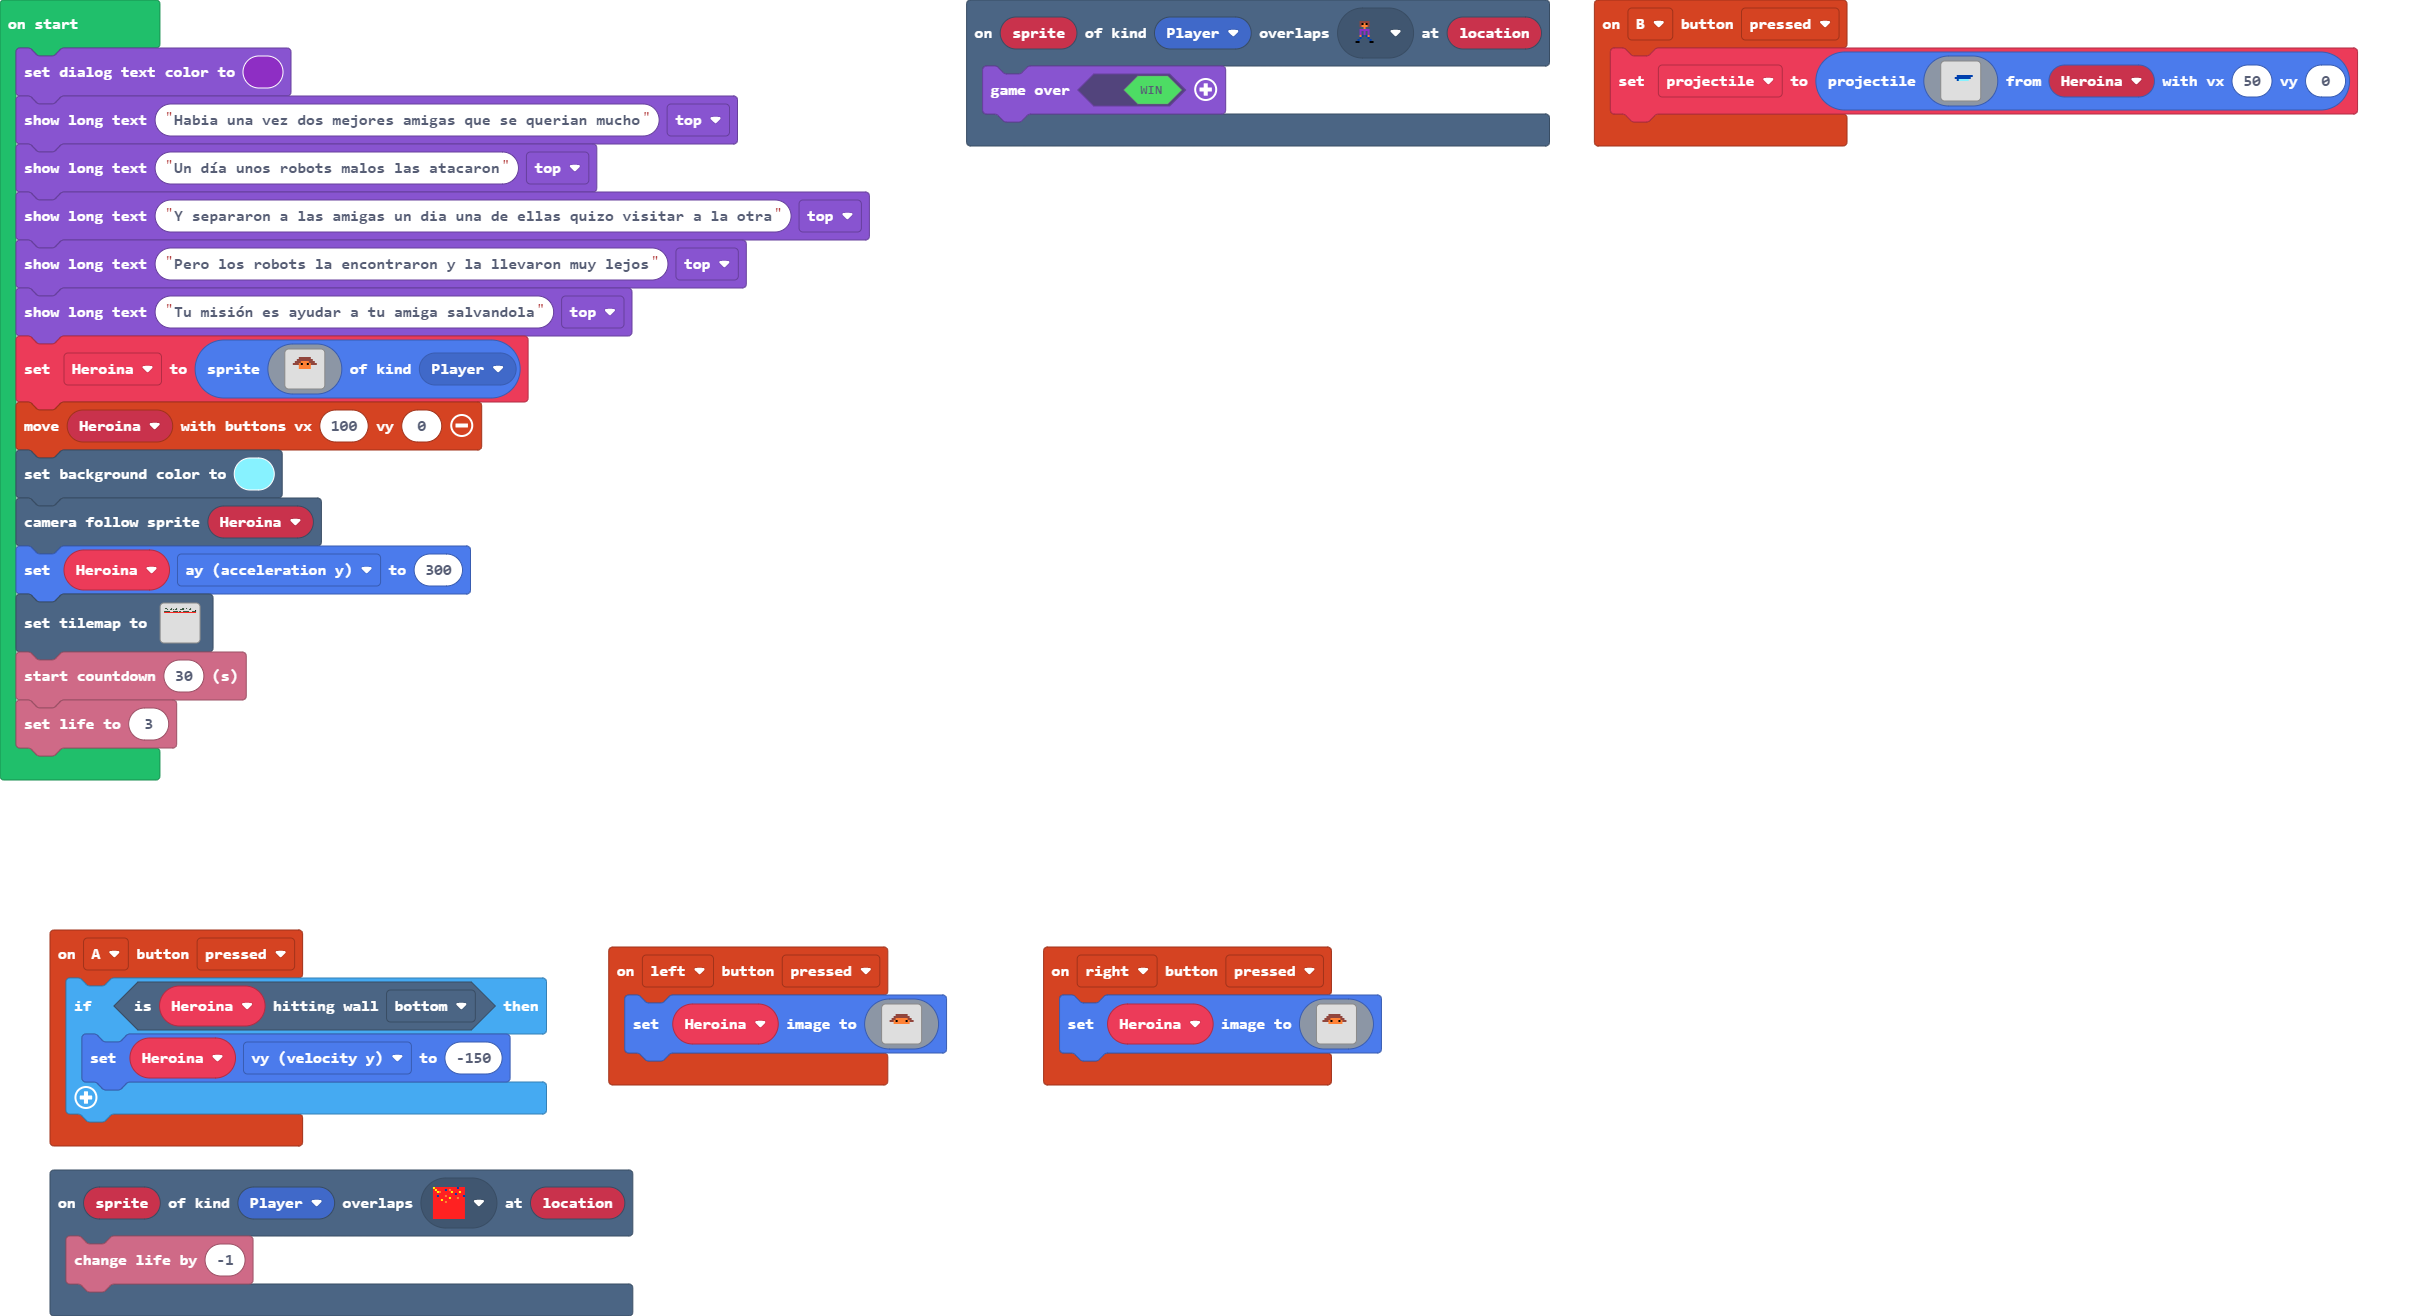
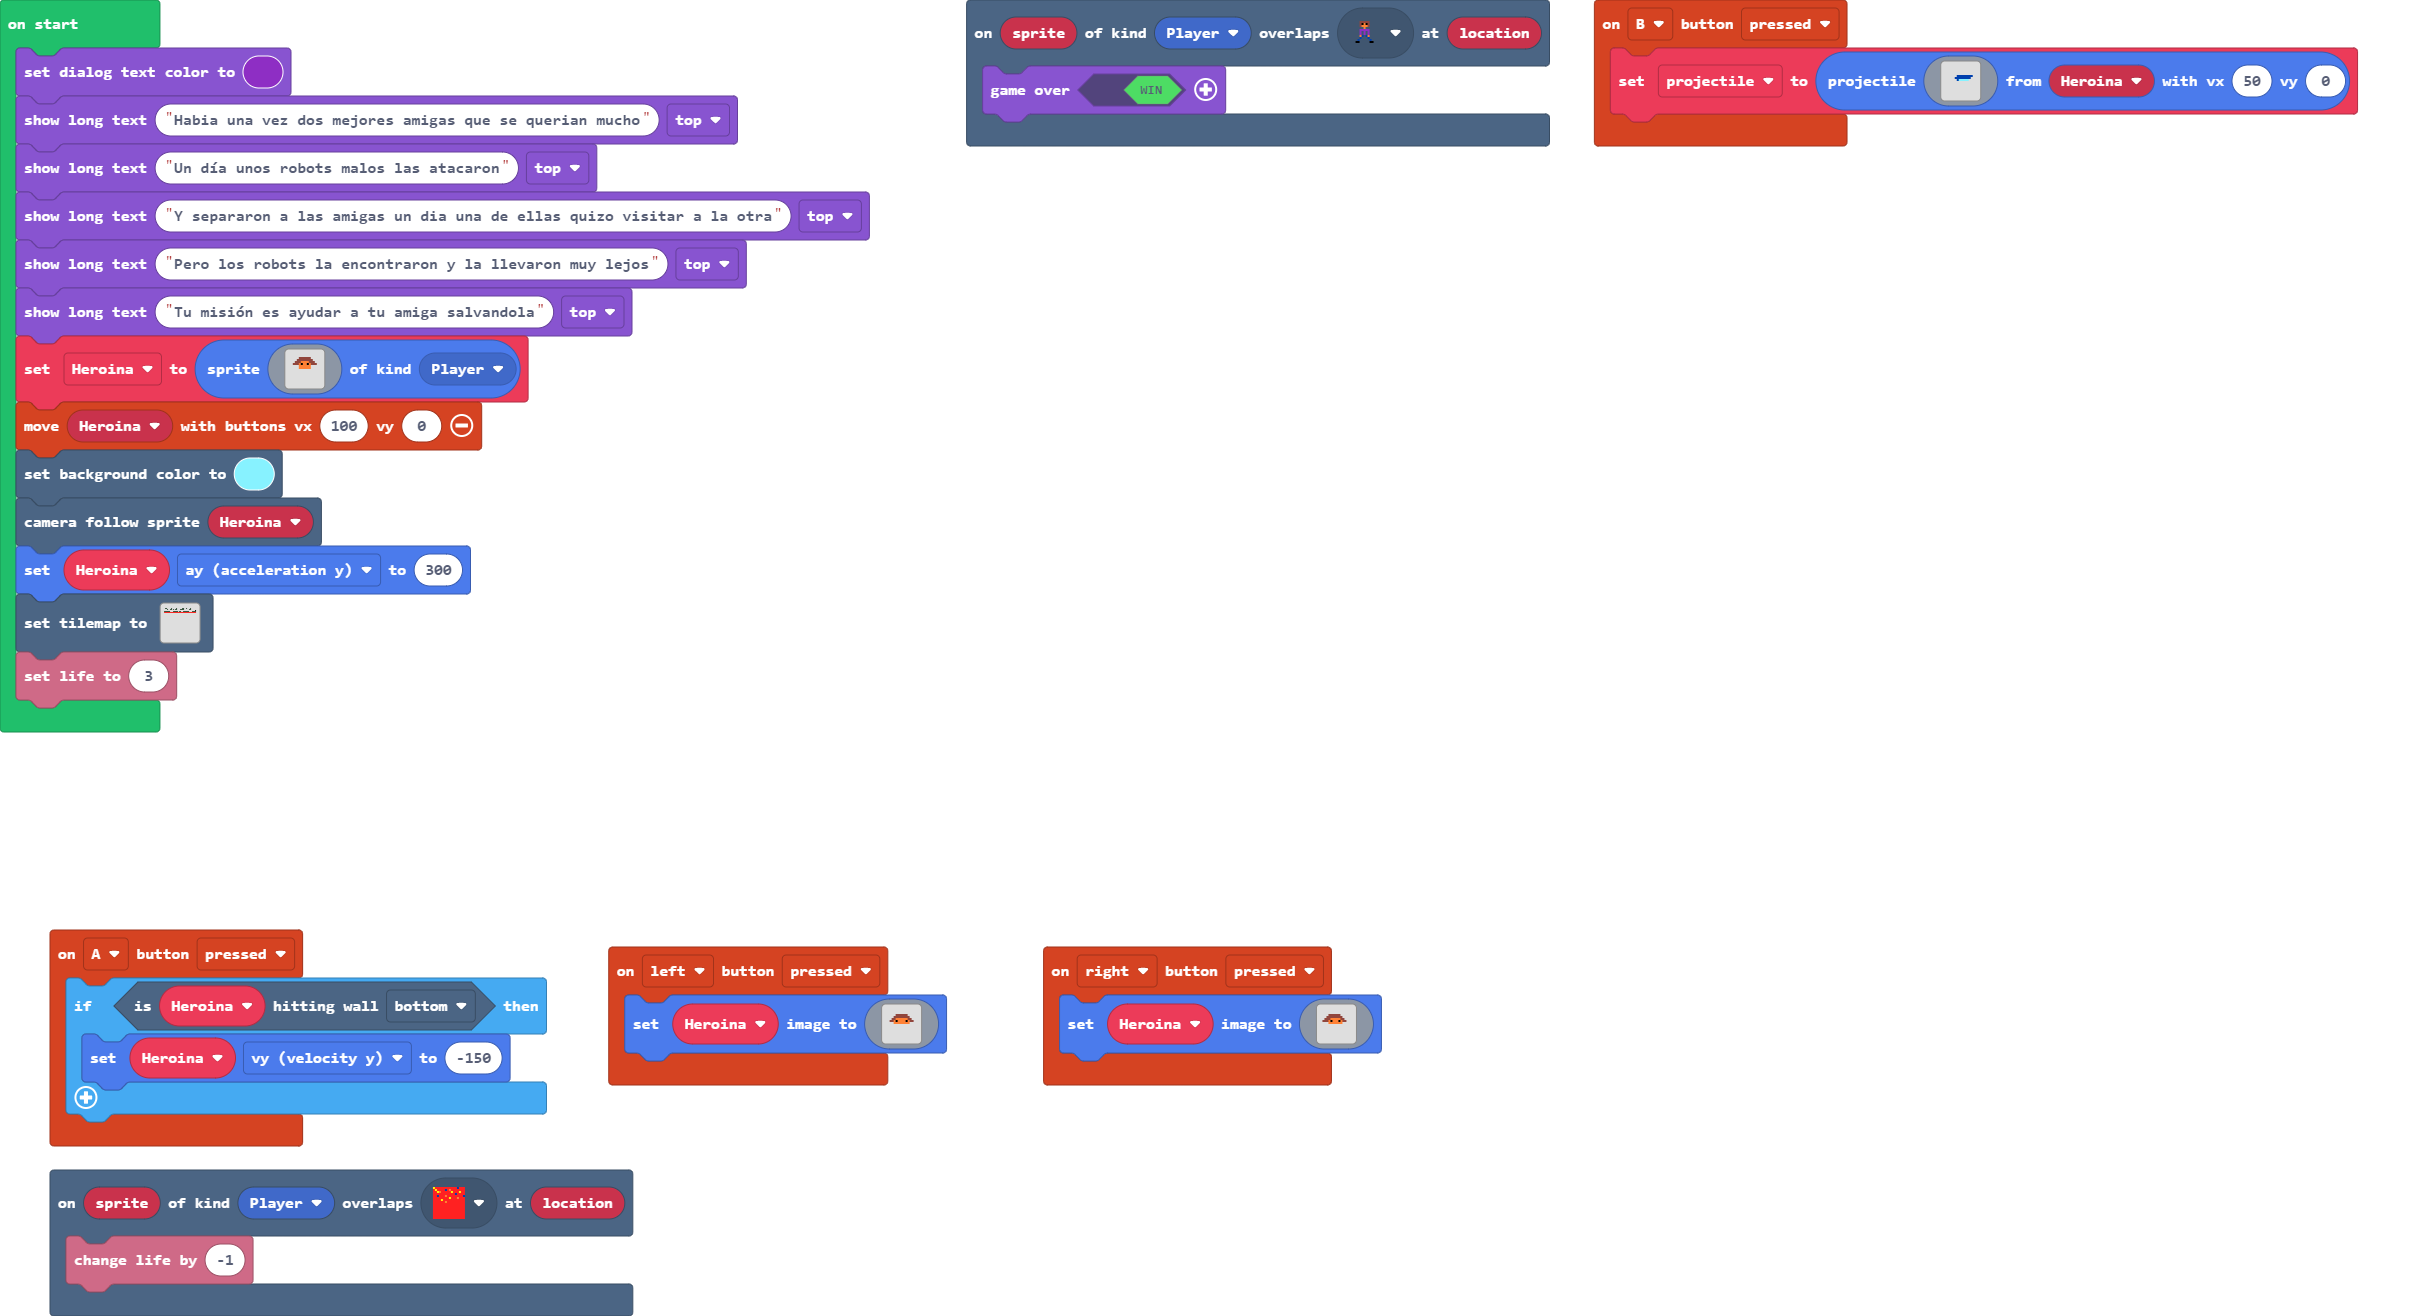
sAQUE TIEMPO

Changed region(s): [[0.0, 0.4985, 0.1245, 0.5919]]

diff --git a/main.ts b/main.ts
@@ -136,5 +136,4 @@ tiles.setTilemap(tiles.createTilemap(hex`200020000000000000000000000000000000000
     . . . . . . . . . . . . . . . . . . . . . . . . . . . . . . . . 
     . . . . . . . . . . . . . . . . . . . . . . . . . . . . . . . . 
     `, [myTiles.transparency16,sprites.castle.saplingPine,myTiles.tile3,myTiles.tile1], TileScale.Sixteen))
-info.startCountdown(30)
 info.setLife(3)
